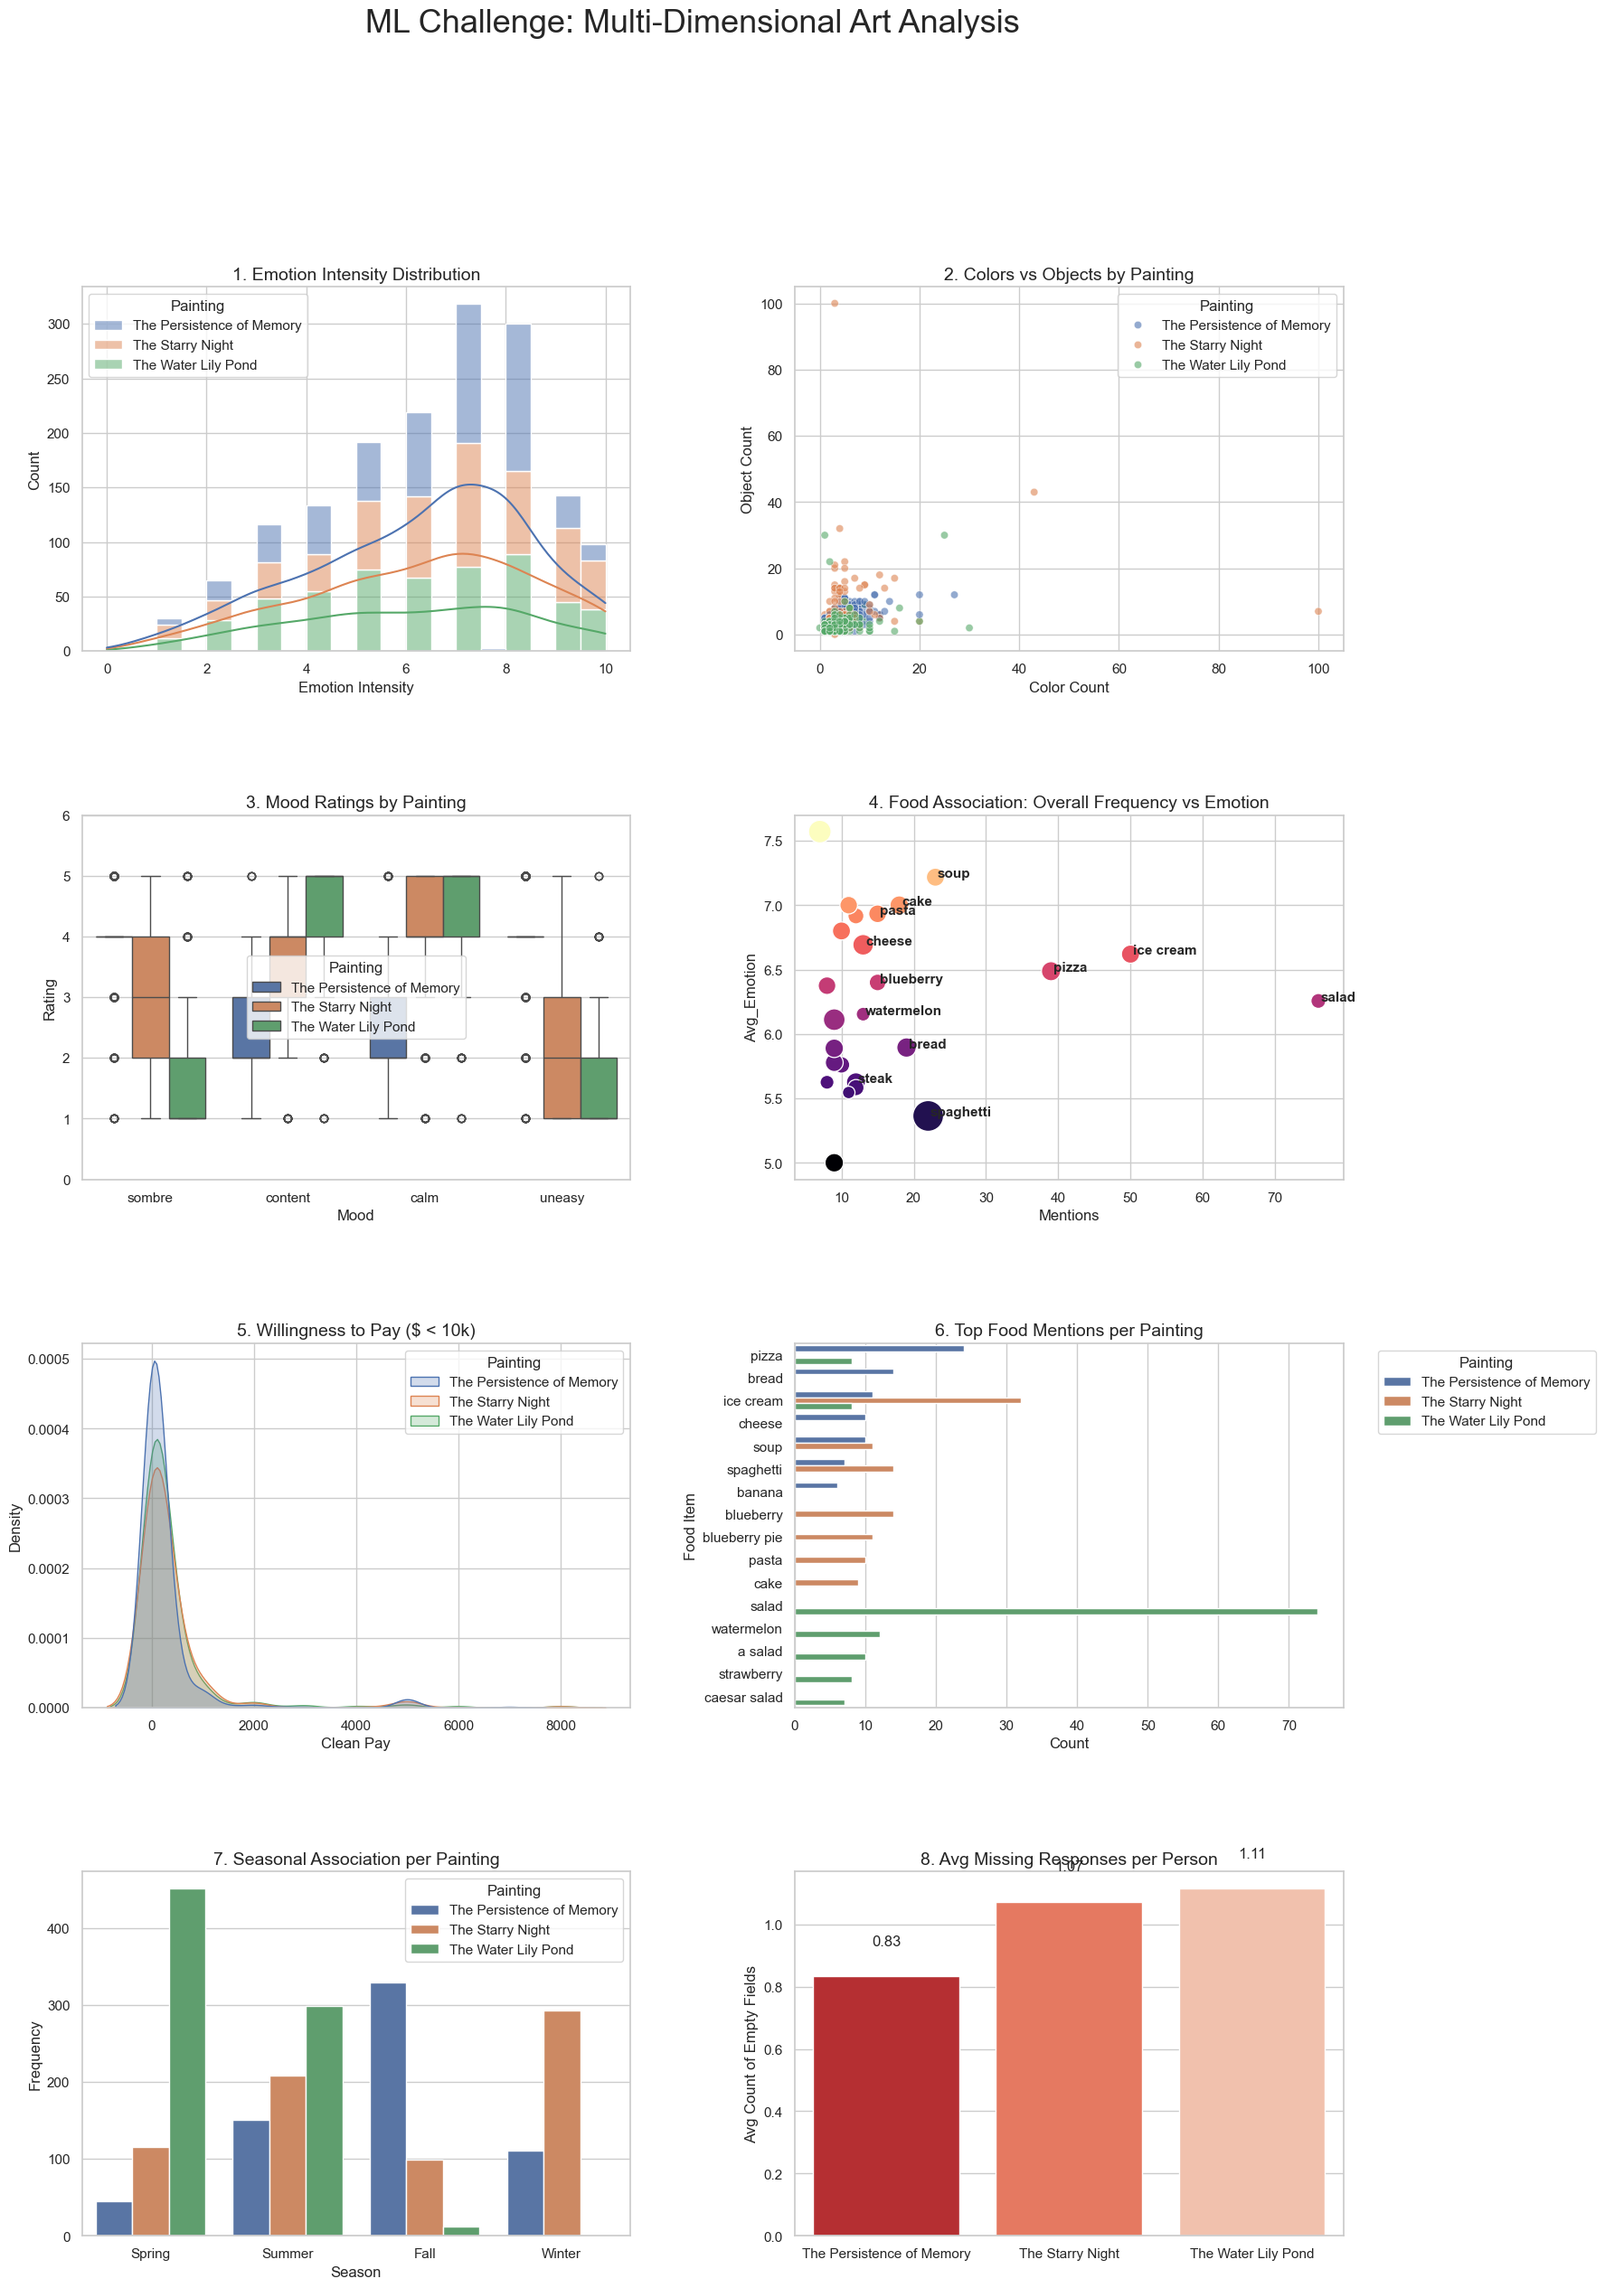
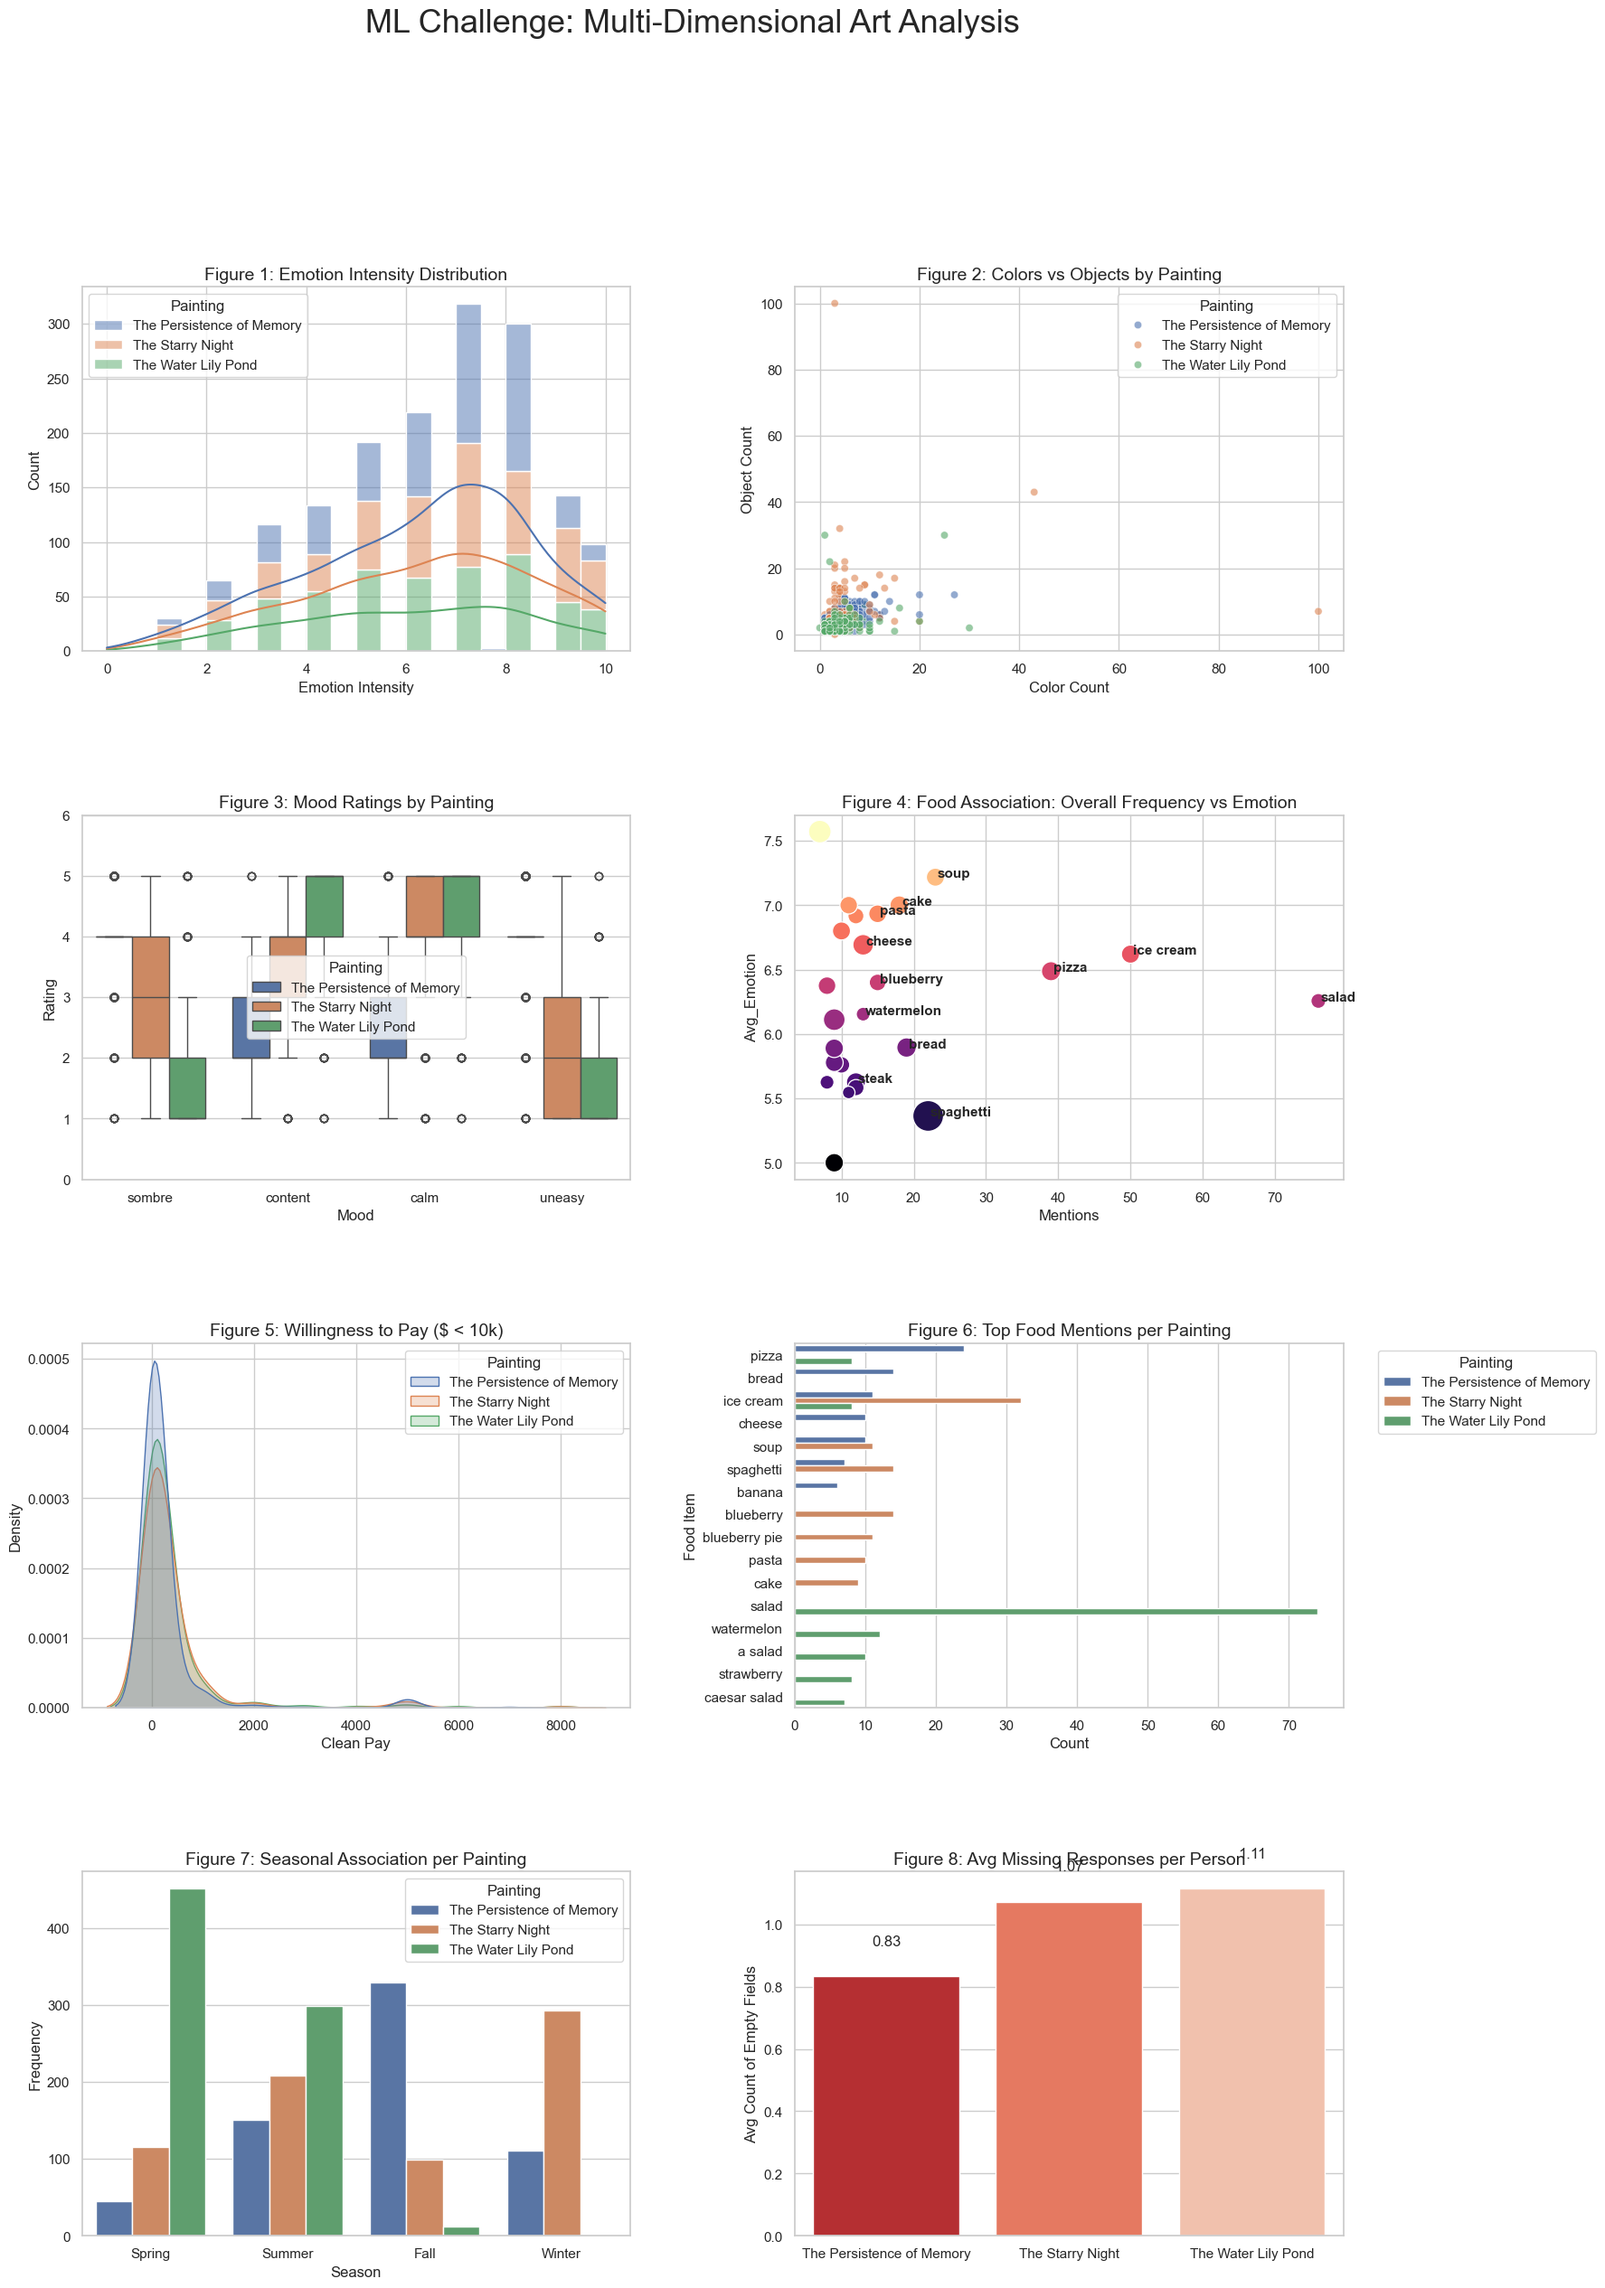
add figure numbers to the different graphs and sound wordcloud and added in the data exploration segment of the report

diff --git a/project_report_template.tex b/project_report_template.tex
@@ -118,27 +118,46 @@
 
 \section{Data Exploration}
 
-\textbf{Worth 2 points. No more than 2 pages.} Describe how you explored your data, and the process through
-which you determined your input features. How did you end up representing your data?
-What else did you try?  We are looking for:
-\begin{itemize}
-	\item A thorough exploration of the data, similar to what is presented in labs.
-	What are the distributions of the features? How do these features correlate with the target?
-	\item If you use figures to answer those questions, an explanation of how you are
-	interpreting those figures. Take care that your figures can be interpreted
-	meaningfully.
-	\item A clear and logical description of how you determined your input features,
-	with convincing logical or empirical evidence justifying your choice. 
-	Important features are not overlooked (e.g., not removed for ``ease'').
-	\item A clear description of the way(s) that you are representing the data in
-	your models.
-	\item The descriptions should be consistent with the `.py' and/or `.ipynb' files that you
-	used while developing your model.
-	\item A clear description of how you are splitting your data into various sets.
-	You may use k-fold cross validation if you'd like, but if you do, describe how
-	you are applying that idea.
-\end{itemize}
+% \textbf{Worth 2 points. No more than 2 pages.} Describe how you explored your data, and the process through
+% which you determined your input features. How did you end up representing your data?
+% What else did you try?  We are looking for:
+% \begin{itemize}
+% 	\item A thorough exploration of the data, similar to what is presented in labs.
+% 	What are the distributions of the features? How do these features correlate with the target?
+% 	\item If you use figures to answer those questions, an explanation of how you are
+% 	interpreting those figures. Take care that your figures can be interpreted
+% 	meaningfully.
+% 	\item A clear and logical description of how you determined your input features,
+% 	with convincing logical or empirical evidence justifying your choice. 
+% 	Important features are not overlooked (e.g., not removed for ``ease'').
+% 	\item A clear description of the way(s) that you are representing the data in
+% 	your models.
+% 	\item The descriptions should be consistent with the `.py' and/or `.ipynb' files that you
+% 	used while developing your model.
+% 	\item A clear description of how you are splitting your data into various sets.
+% 	You may use k-fold cross validation if you'd like, but if you do, describe how
+% 	you are applying that idea.
+% \end{itemize}
 
+We began by reviewing the CSV file to understand its organization and the meaning of each feature. The dataset contains several different types of inputs, including free-response text, Likert-scale mood ratings, multiple-choice categorical responses, and numeric values. Our first step was to explore all of these features and see which ones appeared to be most informative for predicting the painting.
+
+We first graphed the numeric and categorical survey features to understand their distributions across the three paintings better. Figure~1 shows the distribution of emotion intensity ratings. From this graph, we noticed that the distributions for the three paintings overlap heavily, so emotion intensity alone does not clearly separate the classes. In Figure~2, we plotted the number of colours against the number of objects noticed in the painting. Most of the points are clustered in the same region, aside from a small number of outliers, suggesting that these features also do not provide strong separation on their own.
+
+We then examined the mood rating features shown in Figure~3. These ratings, such as whether a painting felt sombre, content, calm, or uneasy, showed more visible differences across the paintings than the simple numeric features did. This suggested that mood-based responses could provide useful signal for the model. We also explored the food association responses in Figures~4 and~6. These figures showed clearer differences across paintings, such as certain foods appearing much more often for one painting than for the others. Similarly, the seasonal associations shown in Figure~7 revealed noticeable differences between paintings, which suggested that season could also be useful for classification.
+
+Next, we looked at willingness to pay in Figure~5. The density curves overlapped substantially, which initially suggested that this feature might not be especially informative by itself. We also summarized missing responses in Figure~8 to better understand data quality and how often survey fields were left blank. At this stage of exploration, features such as willingness to pay, emotion intensity, colour count, and object count appeared much weaker than the text and association-based features when viewed individually.
+
+To explore the free-response text, we created word clouds for the painting descriptions and soundtrack descriptions. The file \texttt{descriptions\_wordcloud.png} showed that different paintings were associated with different emotional and descriptive words, while \texttt{soundtrack\_wordcloud.png} showed similar differences in the musical language participants used to describe each painting. These visualizations suggested that the free-response text fields contained strong class-specific information and would likely be important features for the model.
+
+Although our initial exploratory analysis suggested that some structured features were weak on their own, later model testing showed that including them still improved performance. In particular, even features that looked less informative in the graphs, such as willingness to pay, emotion intensity, colour count, and object count, helped boost the model's average performance when combined with the stronger text and survey-response features. Because of this, we decided not to remove these features from the final representation. Instead, we kept all meaningful survey-response columns and allowed the model to determine how useful each one was in combination with the others.
+
+Based on this, we represented each example using a hybrid feature set. For the text portion, we combined the three free-response columns into one text representation: the description of how the painting makes the participant feel, the food association, and the imagined soundtrack description. We then converted this combined text into bag-of-words count features using both unigrams and bigrams. For the structured portion, we included the numeric features, the willingness-to-pay response, the four Likert-scale mood ratings, and the multiple-choice survey responses. Missing values were handled using indicator features, and categorical responses were encoded using multi-hot representations. We also included a small number of simple interaction features between intensity, colours, and objects.
+
+After constructing these text and structured features, we concatenated them into one final feature vector for each example. This gave the model access to both the semantic information contained in the written responses and the explicit survey patterns found in the structured columns.
+
+For data splitting, we used a stratified 70/15/15 split. We first split the labelled dataset into 70\% training data and 30\% temporary data while preserving class balance. We then split the temporary portion equally into validation and test sets, giving 15\% validation data and 15\% test data. The training set was used to fit the model, the validation set was used for model selection, and the test set was kept separate for final evaluation. Since random forests include randomness during training, we also trained the model multiple times on the same split to check whether performance was stable across runs. This was only used as a consistency check and was not a k-fold cross-validation procedure.
+
+Overall, our exploration showed that the strongest individual signals came from the free-response text, mood ratings, food associations, and seasonal associations. However, our later experiments showed that retaining the full set of meaningful survey features led to better average model performance than using only the features that appeared strongest from the exploratory graphs alone. For that reason, our final model used a hybrid representation that included both the stronger semantic features and the weaker structured features that still improved performance when used together.
 
 \section{Model Exploration}
 

diff --git a/viz_ml_challenge.py b/viz_ml_challenge.py
@@ -11,6 +11,10 @@ import os
 sns.set_theme(style="whitegrid")
 plt.rcParams['figure.figsize'] = (15, 10)
 
+def set_figure_title(ax, figure_number, title, fontsize=14):
+    """Set a graph title with a consistent figure number prefix."""
+    ax.set_title(f'Figure {figure_number}: {title}', fontsize=fontsize)
+
 def clean_numerical(val):
     """Extract first numerical value from string if exists."""
     if pd.isna(val):
@@ -105,18 +109,18 @@ def main():
 
     # 1. Distribution of Emotion Intensity
     sns.histplot(data=df, x='Emotion Intensity', hue='Painting', kde=True, multiple="stack", ax=axes[0, 0])
-    axes[0, 0].set_title('1. Emotion Intensity Distribution', fontsize=14)
+    set_figure_title(axes[0, 0], 1, 'Emotion Intensity Distribution')
 
     # 2. Relationship between Colors and Objects
     sns.scatterplot(data=df, x='Color Count', y='Object Count', hue='Painting', alpha=0.6, ax=axes[0, 1])
-    axes[0, 1].set_title('2. Colors vs Objects by Painting', fontsize=14)
+    set_figure_title(axes[0, 1], 2, 'Colors vs Objects by Painting')
 
     # 3. Mood breakdown
     mood_vars = [col.split("feel ")[-1].replace(".", "") for col in likert_cols if col in df.columns]
     emotion_melt = df.melt(id_vars='Painting', value_vars=mood_vars, 
                            var_name='Mood', value_name='Rating')
     sns.boxplot(data=emotion_melt, x='Mood', y='Rating', hue='Painting', ax=axes[1, 0])
-    axes[1, 0].set_title('3. Mood Ratings by Painting', fontsize=14)
+    set_figure_title(axes[1, 0], 3, 'Mood Ratings by Painting')
     axes[1, 0].set_ylim(0, 6)
 
     # 4. Global Food Scatter Plot
@@ -128,22 +132,22 @@ def main():
         axes[1, 1].text(top_foods.iloc[i]['Mentions']+0.3, top_foods.iloc[i]['Avg_Emotion'], 
                       top_foods.iloc[i]['Food'], fontsize=11, weight='bold')
     
-    axes[1, 1].set_title('4. Food Association: Overall Frequency vs Emotion', fontsize=14)
+    set_figure_title(axes[1, 1], 4, 'Food Association: Overall Frequency vs Emotion')
 
     # 5. Willingness to Pay
     sns.kdeplot(data=df_pay, x='Clean Pay', hue='Painting', fill=True, ax=axes[2, 0])
-    axes[2, 0].set_title('5. Willingness to Pay ($ < 10k)', fontsize=14)
+    set_figure_title(axes[2, 0], 5, 'Willingness to Pay ($ < 10k)')
 
     # 6. Food In Relation to Painting
     sns.barplot(data=top_food_by_painting, x='Count', y='Food_Clean', hue='Painting', ax=axes[2, 1])
-    axes[2, 1].set_title('6. Top Food Mentions per Painting', fontsize=14)
+    set_figure_title(axes[2, 1], 6, 'Top Food Mentions per Painting')
     axes[2, 1].set_xlabel('Count')
     axes[2, 1].set_ylabel('Food Item')
     axes[2, 1].legend(title='Painting', bbox_to_anchor=(1.05, 1), loc='upper left')
 
     # 7. Seasonal Association
     sns.countplot(data=df_seasons, x=season_col, hue='Painting', order=['Spring', 'Summer', 'Fall', 'Winter'], ax=axes[3, 0])
-    axes[3, 0].set_title('7. Seasonal Association per Painting', fontsize=14)
+    set_figure_title(axes[3, 0], 7, 'Seasonal Association per Painting')
     axes[3, 0].set_xlabel('Season')
     axes[3, 0].set_ylabel('Frequency')
 
@@ -153,7 +157,7 @@ def main():
     missing_data = df.groupby('Painting')['MissingCount'].mean().reset_index()
     
     sns.barplot(data=missing_data, x='Painting', y='MissingCount', palette='Reds_r', ax=axes[3, 1])
-    axes[3, 1].set_title('8. Avg Missing Responses per Person', fontsize=14)
+    set_figure_title(axes[3, 1], 8, 'Avg Missing Responses per Person')
     axes[3, 1].set_ylabel('Avg Count of Empty Fields')
     axes[3, 1].set_xlabel('')
     
@@ -200,7 +204,7 @@ def main():
                 ).generate(text)
 
                 axes_swc[i].imshow(wordcloud)
-                axes_swc[i].set_title(f'Soundtrack Vibes: {painting}', fontsize=16)
+                set_figure_title(axes_swc[i], f'9.{i + 1}', f'Soundtrack Vibes: {painting}', fontsize=16)
                 axes_swc[i].axis("off")
             else:
                 axes_swc[i].text(0.5, 0.5, 'No data', ha='center')
